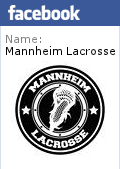
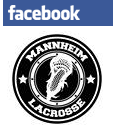
vorgeschlagene änderungen drin

diff --git a/HTML/Herrenteam.html b/HTML/Herrenteam.html
@@ -50,6 +50,7 @@
                             <ul class="dropdown-menu">
                                 <li class="active"> <a href="Herrenteam.html">Herrenteam</a></li>
                                 <li> <a href="Damenteam.html">Damenteam</a></li>
+                                <li> <a href="Jugendteam.html">Jugendteam</a></li>
                             </ul>
                         </li>
                         <li> <a href="Lacrosse.html">Lacrosse?</a></li>
@@ -60,7 +61,7 @@
         </nav>
         
         <div class="container-fluid">
-            <div class="row">
+            <div id="seite" class="row">
                 <div class="col-xs-12 col-sm-8">
                     <h2>Das Herrenteam</h2>
                     <h3>Training </h3>
@@ -82,8 +83,18 @@
                     <h2>Termine</h2>
                     <p>Werden demnächst bekannt gegeben</p>
                     <h3>Mannberg I</h3>
+                    <p> 12.09.15 gegen Erlangen in Erlangen</p>
+                    <p> 18.10.15 gegen Stuttgart in MA/HD</p>
+                    <p> 25.10.15 gegen Karlsruhe in MA/HD</p>
+                    <p> 07.11.15 gegen Würzburg in Würzburg</p>
+                    <p> 22.11.15 gegen Münnchen in MA/HD</p>
                     <h3>Mannberg II</h3>
-                   
+                    <p> 26.09.15 gegen Tübingen in Tübingen</p>
+                    <p> 18.10.15 gegen Stuttgart II in MA/HD</p>
+                    <p> 25.10.15 gegen Karlsruhe II in MA/HD</p>
+                    <p> 01.11.15 gegen Friedrichshafen in Friedrichshafen</p>
+                    <p> 08.11.15 gegen Konstanz in Konstanz</p>
+                    <p> 22.11.15 gegen Freiburg in MA/HD</p>
                     
                     <h2>Tabelle</h2>
                     <h3>Tabelle Bundesliga I</h3>
@@ -120,7 +131,19 @@
                                     <td>0</td>
                                     <td>0</td>
                                     <td>0</td>
-                                </tr>                          
+                                </tr>  
+                                <tr>
+                                    <td>Würzburg</td>
+                                    <td>0</td>
+                                    <td>0</td>
+                                    <td>0</td>
+                                </tr> 
+                                <tr>
+                                    <td>Erlangen</td>
+                                    <td>0</td>
+                                    <td>0</td>
+                                    <td>0</td>
+                                </tr> 
                             </tbody>
                     </table>
                     <h3>Tabelle Bundesliga II</h3>
@@ -157,7 +180,25 @@
                                     <td>0</td>
                                     <td>0</td>
                                     <td>0</td>
-                                </tr>                          
+                                </tr> 
+                                <tr>
+                                    <td>Friedrichshafen</td>
+                                    <td>0</td>
+                                    <td>0</td>
+                                    <td>0</td>
+                                </tr> 
+                                <tr>
+                                    <td>Konstanz</td>
+                                    <td>0</td>
+                                    <td>0</td>
+                                    <td>0</td>
+                                </tr> 
+                                <tr>
+                                    <td>Freiburg</td>
+                                    <td>0</td>
+                                    <td>0</td>
+                                    <td>0</td>
+                                </tr> 
                             </tbody>
                     </table>
 

diff --git a/Index.html b/Index.html
@@ -65,6 +65,7 @@
                             <ul class="dropdown-menu">
                                 <li> <a href="HTML/Herrenteam.html">Herrenteam</a></li>
                                 <li> <a href="HTML/Damenteam.html">Damenteam</a></li>
+                                <li> <a href="HTML/Jugendteam.html">Jugendteam</a></li>
                             </ul>
                         </li>
                         <li> <a href="HTML/Lacrosse.html">Lacrosse?</a></li>
@@ -75,7 +76,7 @@
         </nav>
         
         <div class="container-fluid">
-            <div class="row">
+            <div id="seite" class="row" >
                 <div class="col-xs-12 col-sm-9">
                     <h2>Mannheim Lacrosse</h2>
                     <h3>Du willst mit Lacrosse anfangen oder es einfach mal ausprobieren?</h3>
@@ -92,22 +93,37 @@
                     <p>Dann schaut bei unseren nächsten Ligaspielen vorbei:</p>
                     
                     <h3>Herrenspieltage</h3>
-                    <p>Werden demnächst bekannt gegeben.</p>
+                    <h5>Ob Mannheim oder Heidelberg wird demnächst bekannt gegeben.</h5>
+                                        <h4>Mannberg I</h4>
+                    <p> 12.09.15 gegen Erlangen in Erlangen</p>
+                    <p> 18.10.15 gegen Stuttgart in MA/HD</p>
+                    <p> 25.10.15 gegen Karlsruhe in MA/HD</p>
+                    <p> 07.11.15 gegen Würzburg in Würzburg</p>
+                    <p> 22.11.15 gegen Münnchen in MA/HD</p>
+                    <h4>Mannberg II</h4>
+                    <p> 26.09.15 gegen Tübingen in Tübingen</p>
+                    <p> 18.10.15 gegen Stuttgart II in MA/HD</p>
+                    <p> 25.10.15 gegen Karlsruhe II in MA/HD</p>
+                    <p> 01.11.15 gegen Friedrichshafen in Friedrichshafen</p>
+                    <p> 08.11.15 gegen Konstanz in Konstanz</p>
+                    <p> 22.11.15 gegen Freiburg in MA/HD</p>
+                    
+                    
                 </div>
                 
                 
                 <div class="col-xs-12 col-sm-3 text-center">
                     
-                    <a href="http://www.facebook.de/mannheim.lacrosse" ><img src="IMG/87928324318.3417.333436076.png" class="img-responsive center-block"></a>
+                    <a href="http://www.facebook.de/mannheim.lacrosse" ><img id="fb" src="IMG/87928324318.3417.333436076.png" class="img-responsive center-block sidebar"></a>
                     
                     <h3>Der Hauptverein</h3>
-                    <a href="http://www.spielvereinigung-sandhofen.de" ><img src="IMG/0060_indexbild.jpg" class="img-responsive center-block"></a>
+                    <a href="http://www.spielvereinigung-sandhofen.de" ><img id="sh" src="IMG/0060_indexbild.jpg" class="img-responsive center-block sidebar"></a>
                     
                     <h3>Unser SG Partner</h3>
-                    <a href="http://http://www.tsg78-hd.de/lacrosse" ><img src="IMG/tsg78_logo.jpg" class="img-responsive center-block"></a>
+                    <a href="http://www.tsg78-hd.de/lacrosse" ><img id="sg" src="IMG/tsg78_logo.jpg" class="img-responsive center-block sidebar"></a>
                     
                     <h3>DLAXV</h3>
-                    <a href="http://www.dlaxv.de"><img src="IMG/logo6.png" class="img-responsive center-block"></a>
+                    <a href="http://www.dlaxv.de"><img id="dl" src="IMG/logo6.png" class="img-responsive center-block sidebar"></a>
                 
                 
                 </div>

diff --git a/HTML/Kontakt.html b/HTML/Kontakt.html
@@ -64,6 +64,7 @@
                             <ul class="dropdown-menu">
                                 <li> <a href="Herrenteam.html">Herrenteam</a></li>
                                 <li> <a href="Damenteam.html">Damenteam</a></li>
+                                <li> <a href="Jugendteam.html">Jugendteam</a></li>
                             </ul>
                         </li>
                         <li> <a href="Lacrosse.html">Lacrosse?</a></li>
@@ -74,8 +75,8 @@
         </nav>
         
         <div class="container-fluid">
-            <div class="row">
-                <div class="col-xs-12 col-sm-9">
+            <div id="seite" class="row">
+                <div  class="col-xs-12 col-sm-9">
                     <h2>Kontakt</h2>
                     <h3>E-Mail</h3>
                     <p><a href="mailto:info@mannheim-lacrosse.de">info@mannheim-lacrosse.de</a></p>
@@ -114,16 +115,17 @@ Der Nutzung von im Rahmen der Impressumspflicht veröffentlichten Kontaktdaten d
                 
                 
                 <div class="col-xs-12 col-sm-3 text-center">
-                    <a href="http://www.facebook.de/mannheim.lacrosse" ><img src="../IMG/87928324318.3417.333436076.png" class="img-responsive center-block"></a>
+                    
+                    <a href="http://www.facebook.de/mannheim.lacrosse" ><img id="fb" src="../IMG/87928324318.3417.333436076.png" class="img-responsive center-block sidebar"></a>
                     
                     <h3>Der Hauptverein</h3>
-                    <a href="http://www.spielvereinigung-sandhofen.de" ><img src="../IMG/0060_indexbild.jpg" class="img-responsive center-block"></a>
+                    <a href="http://www.spielvereinigung-sandhofen.de" ><img id="sh" src="../IMG/0060_indexbild.jpg" class="img-responsive center-block sidebar"></a>
                     
                     <h3>Unser SG Partner</h3>
-                    <a href="http://http://www.tsg78-hd.de/lacrosse" ><img src="../IMG/tsg78_logo.jpg" class="img-responsive center-block"></a>
+                    <a href="http://www.tsg78-hd.de/lacrosse" ><img id="sg" src="../IMG/tsg78_logo.jpg" class="img-responsive center-block sidebar"></a>
                     
                     <h3>DLAXV</h3>
-                    <a href="http://www.dlaxv.de"><img src="../IMG/logo6.png" class="img-responsive center-block"></a>
+                    <a href="http://www.dlaxv.de"><img id="dl" src="../IMG/logo6.png" class="img-responsive center-block sidebar"></a>
                 
                 
                 </div>

diff --git a/HTML/Jugendteam.html b/HTML/Jugendteam.html
@@ -11,7 +11,7 @@
         <meta http-equiv="X-UA-Compatible" content="IE=edge">
         <meta name="description" content="Alles über Mannheim Lacrosse">
         <meta name="author" content="Felix Kath">
-        <title>Damenteam</title>
+        <title>Jugendteam</title>
     </head>
     
     <body>
@@ -49,8 +49,8 @@
                             <a class="dropdown-toggle" data-toggle="dropdown" href="#">Teams<span class="caret"></span></a>
                             <ul class="dropdown-menu">
                                 <li> <a href="Herrenteam.html">Herrenteam</a></li>
-                                <li class="active"> <a href="Damenteam.html">Damenteam</a></li>
-                                <li> <a href="Jugendteam.html">Jugendteam</a></li>
+                                <li> <a href="Herrenteam.html">Damenteam</a></li>
+                                <li class="active"> <a href="Damenteam.html">Jugendteam</a></li>
                             </ul>
                         </li>
                         <li> <a href="Lacrosse.html">Lacrosse?</a></li>
@@ -63,15 +63,11 @@
         <div class="container-fluid">
             <div id="seite" class="row">
                 <div class="col-xs-12 col-sm-12">
-                    <h2>Das Damenteam</h2>
+                    <h2>Das Jugendteam</h2>
                     <h3>Training </h3>             
-                    <p>Das Damenteam befindet sich derzeit im Wiederaufbau.</p>
+                    <p>Das Jugendteam befindet sich derzeit im Aufbau</p>
                 
-                    <h3>Die Mannschaft </h3>
-                    <p>Unsere Damenabteilung nahm die Saison (2013/2014) das erste mal am Ligabetrieb teil und zwar in einer Spielgemeinschaft mit Freiburg. </p>
-                    <p>Leider hat sich die Mannschaft aufgelöst, da zu viele unserer Damen Studiums- oder Arbeitsbedingt Mannheim verlassen haben. Eines der Ziele für die kommende Saison ist, dass wieder ein regelmäßiges Damentraining stattfindet. </p>
-                    <h3 class="text-center">Das alte Damenteam</h3>
-                    <img src="../IMG/10360711_10152485853859319_3052188656045633845_n.jpg" class="img-responsive center-block">
+                    <p>Bei Interesse bitte eine kurze E-Mail an <a href="mailto:info@mannheim-lacrosse.de">info@mannheim-lacrosse.de</a> senden, damit wir sobald wie möglich ein Jugendtraining anbieten zu können. </p>
                 </div>
                 
 

diff --git a/HTML/Lacrosse.html b/HTML/Lacrosse.html
@@ -54,6 +54,7 @@
                             <ul class="dropdown-menu">
                                 <li> <a href="Herrenteam.html">Herrenteam</a></li>
                                 <li> <a href="Damenteam.html">Damenteam</a></li>
+                                <li> <a href="Jugendteam.html">Jugendteam</a></li>
                             </ul>
                         </li>
                         <li class="active"> <a href="Lacrosse.html">Lacrosse?</a></li>
@@ -64,7 +65,7 @@
         </nav>
         
         <div class="container-fluid">
-            <div class="row">
+            <div id="seite" class="row">
                 <div class="col-xs-12 col-sm-12">
                     <h2>Was ist Lacrosse?</h2>
                     
@@ -81,14 +82,16 @@
 <p>Es gibt auch eine Hallenvariante von Lacrosse, die sehr dem Eishockey ähnelt und vor allem in Kanada gerne gespielt wird. Dort treten in Eishockeyhallen auf einem kunstrasenähnlichen Boden 6 Spieler pro Team gegeneinander an.
                     </p>
                     
-                    <h4><a href="https://www.youtube.com/watch?v=eQJHKTChEuQ">Herrenlacrosse</a></h4>
+                    
+                    <iframe width="560" height="315" src="https://www.youtube.com/embed/Qni4W76jNtY" frameborder="0" allowfullscreen class="center-block"></iframe>
                     
                     <h3>Damenlacrosse</h3>
                     
                     <p>Das Damen-Lacrosse ist eine eigenständige Variante, welche sich vor allem durch das körperlose Spiel und die fehlende Schutzausrüstung vom Spiel der Männer unterscheidet.
                     </p>
                     
-                    <h4><a href="https://vimeo.com/25510669">Damenlacrosse</a></h4>
+                    
+                    <iframe src="https://player.vimeo.com/video/25510669" width="560" height="315" frameborder="0" webkitallowfullscreen mozallowfullscreen allowfullscreen class="center-block"></iframe>
                     
                 </div>
                 

diff --git a/HTML/News.html b/HTML/News.html
@@ -15,6 +15,7 @@
     </head>
     
     <body>
+        
         <div class="row">
             <div class="col-xs-12">
                 <img src="../IMG/10623665_10152744647754319_1445676921342366084_o.jpg" class="img-responsive">
@@ -50,6 +51,7 @@
                             <ul class="dropdown-menu">
                                 <li> <a href="Herrenteam.html">Herrenteam</a></li>
                                 <li> <a href="Damenteam.html">Damenteam</a></li>
+                                <li> <a href="Jugendteam.html">Jugendteam</a></li>
                             </ul>
                         </li>
                         <li> <a href="Lacrosse.html">Lacrosse?</a></li>
@@ -60,8 +62,8 @@
         </nav>
         
         <div class="container-fluid">
-            <div class="row">
-                <div class="col-xs-12 col-sm-12">
+            <div id="seite" class="row">
+                <div class="col-xs-9 col-sm-9">
                     <h2>News rund um Mannheim Lacrosse</h2>
                     
                     <h3>Zweites Spiel, zweiter Sieg!  </h3>             
@@ -84,9 +86,12 @@
                     <p>Bäääääääääääm!</p>
 
                 </div>
-                
-
-            
+                <div class="col-xs-3 col-sm-3">
+                    <img src="../IMG/64238_10153187538264319_3293730620434053840_n.jpg" class="img-responsive center-block">
+                    <img  src="../IMG/10604053_10152825878624319_1381660631861445663_o.jpg" class="img-responsive center-block">
+                    <img  src="../IMG/11217830_10153348945894319_17732901152553276_n.jpg" class="img-responsive center-block">
+                    <img  src="../IMG/10987493_870804482989855_5759315207222225884_n.jpg" class="img-responsive center-block">
+                </div>
             </div>
         
         

diff --git a/main.css b/main.css
@@ -1,4 +1,21 @@
 .col-sm-9, .col-sm-12, .col-sm-8 {
     padding-right: 3.125rem;
     padding-left: 3.125rem;
+    padding-bottom: 4rem;
+    
 }
+#seite{
+    padding-bottom: 15rem;
+}
+.sidebar{
+    width: 20rem;
+    height: auto;
+    overflow:hidden;
+}
+#dl{
+    width:23rem;
+}
+#sh{
+    width:15rem;}
+#fb{
+    width:15rem;}
